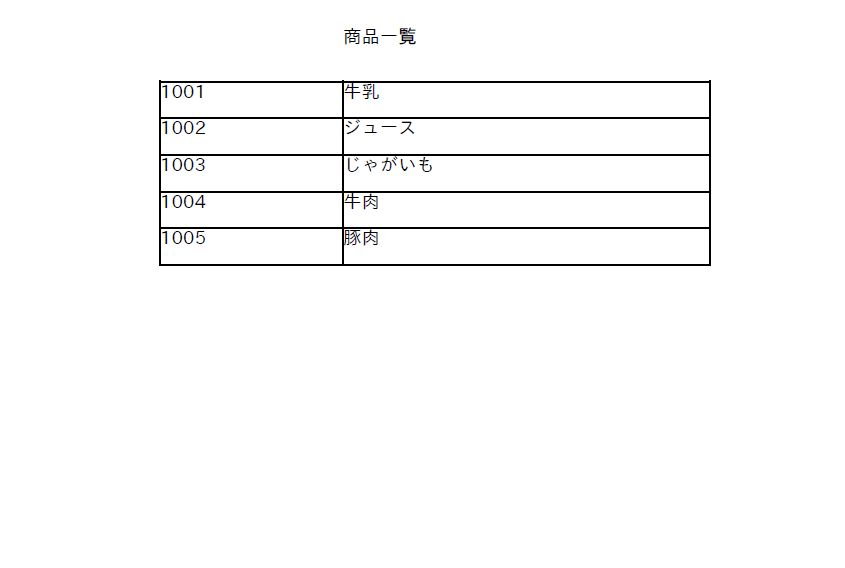
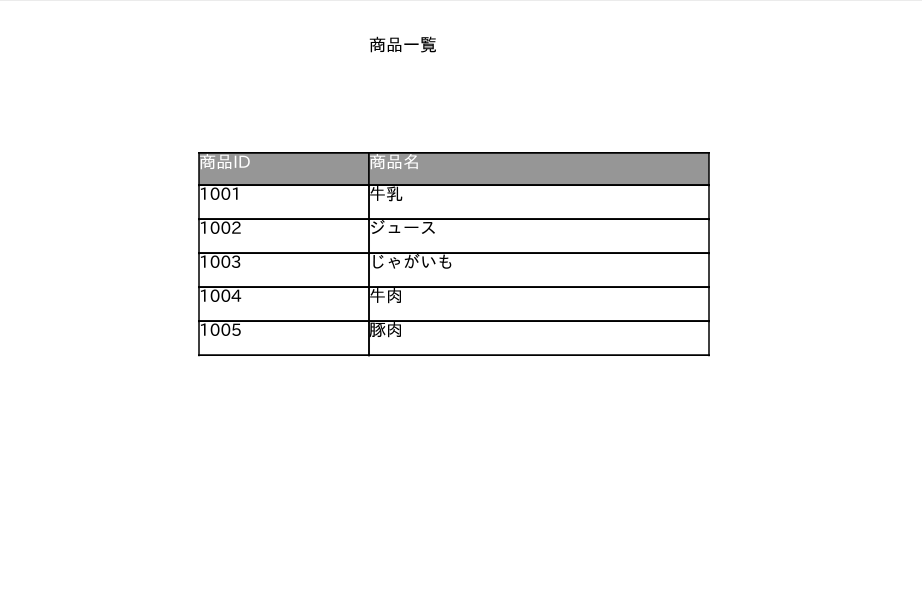
商品一覧にヘッダ追加

Changed region(s): [[0.1846, 0.1197, 0.8615, 0.5986], [0.4, 0.0299, 0.4923, 0.0898]]

diff --git a/src/main/java/com/example/fw/common/reports/AbstractJasperReportCreator.java b/src/main/java/com/example/fw/common/reports/AbstractJasperReportCreator.java
@@ -160,7 +160,7 @@ public abstract class AbstractJasperReportCreator<T> {
 	 * @throws FileNotFoundException jrxmlファイルが見つからない場合
 	 */
 	private JasperReport compileJRXML() throws JRException, FileNotFoundException {
-		// TODO: 取引一覧の帳票コンパイル時に以下のメッセージが出てしまう模様なので、実装方法を様子見
+		// TODO: JDK21の場合は、帳票コンパイル時に以下のメッセージが出てしまうため、様子見（JDK17では出力されない）
 		// 「n.s.j.engine.design.JRJdk13Compiler : ノート:
 		// クラス・パスに1つ以上のプロセッサが見つかったため、注釈処理が有効化されています。少なくとも1つのプロセッサが名前(-processor)で指定されるか、
 		// 検索パス(--processor-path、--processor-module-path)が指定されるか、注釈処理が明示的に有効化(-proc:only、-proc:full)されている場合を除き、
